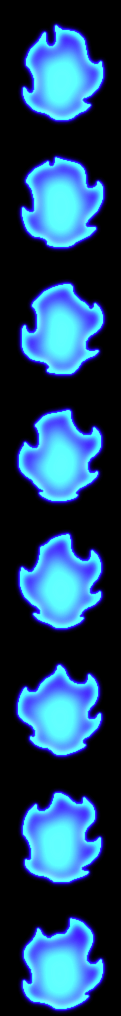
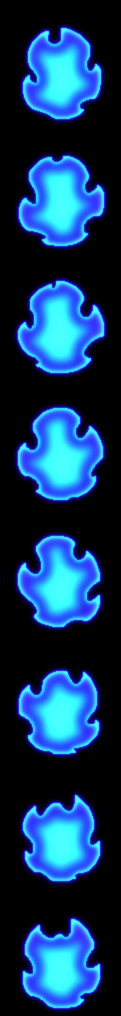
Hiatus.

diff --git a/Players/MyPlayer.Hooks.cs b/Players/MyPlayer.Hooks.cs
@@ -585,34 +585,43 @@ namespace DBZMOD
             var index = layers.FindIndex(x => x.Name == "MiscEffectsBack");
             layers.Insert(index, AnimationHelper.auraEffect);
 
+            // handle SSJ hair/etc.
             int hair = layers.FindIndex(l => l == PlayerLayer.Hair);
             if (hair < 0)
                 return;
 
-            TransformationDefinition transformation = GetCurrentTransformation();
-            bool showDefaultHair = transformation == null || transformation.Appearance.hair == null || string.IsNullOrWhiteSpace(transformation.Appearance.hair.hairTexture);
-
-            if (!showDefaultHair)
+            if (this.hair != null)
             {
                 layers[hair] = new PlayerLayer(mod.Name, "TransHair",
                     delegate (PlayerDrawInfo draw)
                     {
+                        // TODO Change this to use HairAppearance class.
                         Player player = draw.drawPlayer;
 
-                        if (ssjHairStyles[HairAppearance.BASE_HAIRSTYLE_KEY] == 0)
-                            return;
+                        Color alpha = draw.drawPlayer.GetImmuneAlpha(Lighting.GetColor((int)(draw.position.X + draw.drawPlayer.width * 0.5) / 16, (int)((draw.position.Y + draw.drawPlayer.height * 0.25) / 16.0), hairColor), draw.shadow);
+                        DrawData data = new DrawData(
+                            this.hair, 
+                            new Vector2((int)(draw.position.X - Main.screenPosition.X - player.bodyFrame.Width / 2 + player.width / 2), (int)(draw.position.Y - Main.screenPosition.Y + player.height - player.bodyFrame.Height + 4f)) + player.headPosition + draw.headOrigin, 
+                            player.bodyFrame, 
+                            alpha, 
+                            player.headRotation, 
+                            draw.headOrigin, 
+                            1f, 
+                            draw.spriteEffects, 0);
 
-                        Color alpha = draw.drawPlayer.GetImmuneAlpha(Lighting.GetColor((int)(draw.headOrigin.X + draw.drawPlayer.width * 0.5) / 16, (int)((draw.headOrigin.Y + draw.drawPlayer.height * 0.25) / 16.0), hairColor), draw.drawPlayer.shadow);
-                        DrawData data = new DrawData(this.hair, new Vector2((float)((int)(draw.headOrigin.X - Main.screenPosition.X - (float)(player.bodyFrame.Width / 2) + (float)(player.width / 2))), (float)((int)(draw.headOrigin.Y - Main.screenPosition.Y + (float)player.height - (float)player.bodyFrame.Height + 3.5f))) + player.headPosition + draw.headOrigin, player.bodyFrame, alpha, player.headRotation, draw.headOrigin, 1f, draw.spriteEffects, 0);
                         data.shader = draw.hairShader;
                         Main.playerDrawData.Add(data);
                     });
             }
 
-            
-            PlayerLayer.Hair.visible = showDefaultHair;
-            PlayerLayer.HairBack.visible = showDefaultHair;
-            PlayerHeadLayer.Hair.visible = showDefaultHair;
+            if (this.hair != null)
+            {
+                PlayerLayer.Head.visible = false;
+                PlayerLayer.Hair.visible = false;
+                PlayerLayer.HairBack.visible = false;
+                PlayerHeadLayer.Hair.visible = false;
+                PlayerHeadLayer.Head.visible = false;
+            }
         }
 
         public override void OnHitAnything(float x, float y, Entity victim)
@@ -643,6 +652,8 @@ namespace DBZMOD
 
         public override void UpdateBadLifeRegen()
         {
+            if (player.whoAmI != Main.LocalPlayer.whoAmI) return;
+
             TransformationDefinition transformation = GetCurrentTransformation();
             if (transformation == null) return;
 
@@ -695,7 +706,14 @@ namespace DBZMOD
                     else
                     {
                         if (transformation.Appearance.hair != null && transformation.Appearance.hair.hairTexture != null && transformation.Appearance.hair.hairName != null)
-                            hair = mod.GetTexture(transformation.Appearance.hair.hairTexture + ssjHairStyles[transformation.Appearance.hair.hairName]);
+                        {
+                            int hairStyleId = 1;
+
+                            if (ssjHairStyles.ContainsKey(transformation.Appearance.hair.hairName))
+                                hairStyleId = ssjHairStyles[transformation.Appearance.hair.hairName];
+
+                            hair = mod.GetTexture(transformation.Appearance.hair.hairTexture + hairStyleId);
+                        }
                         else
                             hair = null;
                     }
@@ -933,6 +951,8 @@ namespace DBZMOD
 
         public void OnKilledNPC(NPC npc)
         {
+
+
             for (int i = 0; i < ActiveTransformations.Count; i++)
                 ActiveTransformations[i].OnPlayerKillAnything(this, npc);
         }

diff --git a/DBZMODGlobalNPC.cs b/DBZMODGlobalNPC.cs
@@ -233,12 +233,16 @@ namespace DBZMOD
             bool isDisplayingHellMessage = false;
             bool isDisplayingEvilMessage = false;
             bool isDisplayingMushroomMessage = false;
+
             if (Main.netMode == NetmodeID.SinglePlayer)
             {
                 MyPlayer modPlayer = Main.LocalPlayer.GetModPlayer<MyPlayer>();
 
                 if (modPlayer == null)
                     return;
+
+                if (npc.lastInteraction == Main.LocalPlayer.whoAmI)
+                    Main.LocalPlayer.GetModPlayer<MyPlayer>().OnKilledNPC(npc);
 
                 if (npc.type == NPCID.EaterofWorldsHead && npc.boss)
                 {
@@ -289,6 +293,7 @@ namespace DBZMOD
             {
                 if (!Main.dedServ)
                     return;
+
                 for (int i = 0; i < Main.player.Length; i++)
                 {
                     // i wish I could tell you why this is a thing.
@@ -303,6 +308,8 @@ namespace DBZMOD
 
                     if (modPlayer == null)
                         return;
+
+                    Main.LocalPlayer.GetModPlayer<MyPlayer>().OnKilledNPC(npc);
 
                     if (npc.type == NPCID.EaterofWorldsHead && npc.boss)
                     {
@@ -727,14 +734,6 @@ namespace DBZMOD
                         Item.NewItem((int)npc.position.X, (int)npc.position.Y, npc.width, npc.height, mod.ItemType("MetamoranSash"));
                 }
             }
-        }
-
-        public override bool SpecialNPCLoot(NPC npc)
-        {
-            if (npc.lastInteraction == Main.LocalPlayer.whoAmI)
-                Main.LocalPlayer.GetModPlayer<MyPlayer>().OnKilledNPC(npc);
-
-            return base.SpecialNPCLoot(npc);
         }
 
         public override void SetupShop(int type, Chest shop, ref int nextSlot)

diff --git a/Players/MyPlayer.cs b/Players/MyPlayer.cs
@@ -353,6 +353,8 @@ namespace DBZMOD
         // currently doesn't use the damage received param. Included just in case.
         public void HandleDamageReceivedMastery(int damageReceived)
         {
+            if (player.whoAmI != Main.LocalPlayer.whoAmI) return;
+
             TransformationDefinition transformation = GetCurrentTransformation();
             if (transformation == null || !transformation.HasMastery) return;
 
@@ -632,7 +634,7 @@ namespace DBZMOD
 
             }
 
-            if(!hairChecked)
+            if(!hairChecked && player.whoAmI == Main.LocalPlayer.whoAmI)
             {
                 HairMenu.menuVisible = true;
             }
@@ -1767,7 +1769,7 @@ namespace DBZMOD
             SoundHelper.PlayCustomSound("Sounds/Awakening", player);
         }
 
-        public bool HasTransformation(TransformationDefinition transformationDefinition) => PlayerTransformations.ContainsKey(transformationDefinition);
+        public bool HasTransformation(TransformationDefinition transformationDefinition) => player.whoAmI != Main.LocalPlayer.whoAmI ? false : PlayerTransformations.ContainsKey(transformationDefinition);
 
         public int auraFrameTimer = 0;
         public int auraCurrentFrame = 0;

diff --git a/Effects/Animations/Aura/AuraAnimations.cs b/Effects/Animations/Aura/AuraAnimations.cs
@@ -48,7 +48,7 @@ namespace DBZMOD.Effects.Animations.Aura
 
             ssjgAura = new AuraAnimationInfo(GetAnimationSpriteName("SSJGAura"), 8, 3, BlendState.AlphaBlend, "Sounds/SSJAscension", "Sounds/SSG", 340, true, false, new AuraAnimationInfo.DustDelegate(DoChargeDust), 0, null, 1),
             ssjbAura = new AuraAnimationInfo(GetAnimationSpriteName("SSJBAura"), 8, 3, BlendState.Additive, "Sounds/SSJAscension", "Sounds/SSB", 340, true, false, new AuraAnimationInfo.DustDelegate(DoChargeDust), 0, null, 1),
-            ssjrAura = new AuraAnimationInfo(GetAnimationSpriteName("SSJRAura"), 4, 3, BlendState.Additive, "Sounds/SSJAscension", "Sounds/SSJR", 340, true, false, new AuraAnimationInfo.DustDelegate(DoChargeDust), 0, null, 1),
+            ssjrAura = new AuraAnimationInfo(GetAnimationSpriteName("SSJRAura"), 8, 3, BlendState.Additive, "Sounds/SSJAscension", "Sounds/SSJR", 340, true, false, new AuraAnimationInfo.DustDelegate(DoChargeDust), 0, null, 1),
 
             uiOmenAura = new AuraAnimationInfo(GetAnimationSpriteName("UIOmenAura"), 15, 4, BlendState.Additive, "Sounds/SSJAscension", "Sounds/SSG", 340, true, false, new AuraAnimationInfo.DustDelegate(DoChargeDust), 0, null, 1),
 

diff --git a/Transformations/SSJ/SSJBs/SSJR/SSJRTransformation.cs b/Transformations/SSJ/SSJBs/SSJR/SSJRTransformation.cs
@@ -8,8 +8,8 @@ namespace DBZMOD.Transformations.SSJ.SSJBs.SSJR
     {
         public SSJRTransformation(params TransformationDefinition[] parents) : base("Super Saiyan Rosé", TransformationDefinitionManager.roseTransformationTextColor,
             4.75f, 4.75f, 22, 2.75f, 310f / 60, 155f / 60, 0f, 
-            new TransformationAppearanceDefinition(AuraAnimations.ssjrAura, new ReadOnlyColor(0.5f, 0.1f, 0.4f), 
-                new HairAppearance("Hairs/SSJR/SSJRHair", null, null, HairAppearance.BASE_HAIRSTYLE_KEY), Color.LightPink),
+            new TransformationAppearanceDefinition(AuraAnimations.ssjrAura, ReadOnlyColor.DefaultAuraLighting(Color.LightPink),
+                new HairAppearance("Hairs/SSJR/SSJRHair", null, null, HairAppearance.SSJ1_HAIRSTYLE_KEY), Color.LightPink),
             typeof(SSJRBuff),
             buffIconGetter: () => GFX.ssjrButtonImage, hasMenuIcon: true,
             canBeMastered: true,

diff --git a/Transformations/SSJ/SSJBs/SSJB/SSJBTransformation.cs b/Transformations/SSJ/SSJBs/SSJB/SSJBTransformation.cs
@@ -8,7 +8,7 @@ namespace DBZMOD.Transformations.SSJ.SSJBs.SSJB
     {
         public SSJBTransformation(params TransformationDefinition[] parents) : base("Super Saiyan Blue", TransformationDefinitionManager.blueTransformationTextColor,
             4.50f, 4.50f, 20, 2.75f, 5f, 2.5f, 0f,
-            new TransformationAppearanceDefinition(AuraAnimations.ssjbAura, new ReadOnlyColor(0f, 0f, 0.5f), 
+            new TransformationAppearanceDefinition(AuraAnimations.ssjbAura, new ReadOnlyColor(0f, 0f, 2.55f), 
                 new HairAppearance("Hairs/SSJB/SSJBHair", null, null, HairAppearance.SSJ1_HAIRSTYLE_KEY), Color.Blue), 
             typeof(SSJBBuff),
             buffIconGetter: () => GFX.ssjbButtonImage, hasMenuIcon: true,

diff --git a/Network/PlayerPacketHandler.cs b/Network/PlayerPacketHandler.cs
@@ -238,8 +238,8 @@ namespace DBZMOD.Network
         // should always be to server, from joining player
         public void SendPlayerInfoToPlayerFromOtherPlayer(int toWho, int fromWho)
         {
-            Player player = Main.player[fromWho];
-            MyPlayer modPlayer = player.GetModPlayer<MyPlayer>();
+            MyPlayer modPlayer = Main.player[fromWho].GetModPlayer<MyPlayer>();
+
             SendChangedKiMax2(toWho, fromWho, fromWho, modPlayer.kiMax2);
             SendChangedKiMax3(toWho, fromWho, fromWho, modPlayer.kiMax3);
             SendChangedKiMaxMult(toWho, fromWho, fromWho, modPlayer.kiMaxMult);

diff --git a/Transformations/TransformationAppearanceDefinition.cs b/Transformations/TransformationAppearanceDefinition.cs
@@ -40,6 +40,10 @@ namespace DBZMOD.Transformations
             this.blue = blue;
         }
 
+        public static ReadOnlyColor DefaultAuraLighting(Color color) => new ReadOnlyColor(color.R / 100f, color.G / 100f, color.B / 100f);
+
+        public static ReadOnlyColor DefaultHairColor(Color color) => new ReadOnlyColor(color.R / 255f, color.G / 255f, color.B / 255f);
+
         public static implicit operator Color(ReadOnlyColor color)
         {
             return new Color((int) color.red, (int)color.green, (int)color.blue);

diff --git a/Transformations/TransformationBuff.cs b/Transformations/TransformationBuff.cs
@@ -20,6 +20,8 @@ namespace DBZMOD.Transformations
 
         public override void Update(Player player, ref int buffIndex)
         {
+            if (player.whoAmI != Main.LocalPlayer.whoAmI) return;
+
             MyPlayer modPlayer = MyPlayer.ModPlayer(player);
 
             modPlayer.player.lifeRegen -= (int) TransformationDefinition.GetHealthDrainRate(modPlayer);

diff --git a/NPCs/DBZMODNPC.cs b/NPCs/DBZMODNPC.cs
@@ -1,0 +1,15 @@
+using Terraria;
+using Terraria.ModLoader;
+
+namespace DBZMOD.NPCs
+{
+    public sealed class DBZMODNPC : ModNPC
+    {
+        public bool[] tagged;
+
+        public override void OnHitByItem(Player player, Item item, int damage, float knockback, bool crit)
+        {
+
+        }
+    }
+}
